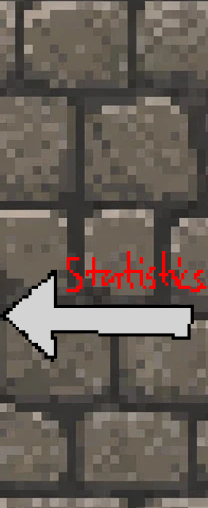
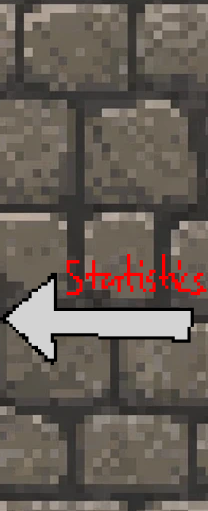
gap fix and resize images

diff --git a/README.md b/README.md
@@ -1,1 +1,1 @@
-<div><a href="statistics.md"><img src="assets/Statistics.png" width="25%" alt="Go West"></a><a href="https://github.com/harrisonharrisonharrison"><img src="assets/Identity.png" width="50%" alt="Identity Chamber"></a><a href="projects.md"><img src="assets/Projects.png" width="25%" alt="Go East"></a><a href="contact.md"><img src="assets/Contact.png" width="100%" align="left" alt="Contact Chamber"></a></div>
+<div><a href="statistics.md"><img src="assets/Statistics.png" width="25%" align="top" alt="Go West"></a><a href="https://github.com/harrisonharrisonharrison"><img src="assets/Identity.png" align="top" width="50%" alt="Identity Chamber"></a><a href="projects.md"><img src="assets/Projects.png" align="top" width="25%" alt="Go East"></a><a href="contact.md"><img src="assets/Contact.png" width="100%" alt="Contact Chamber"></a></div>
